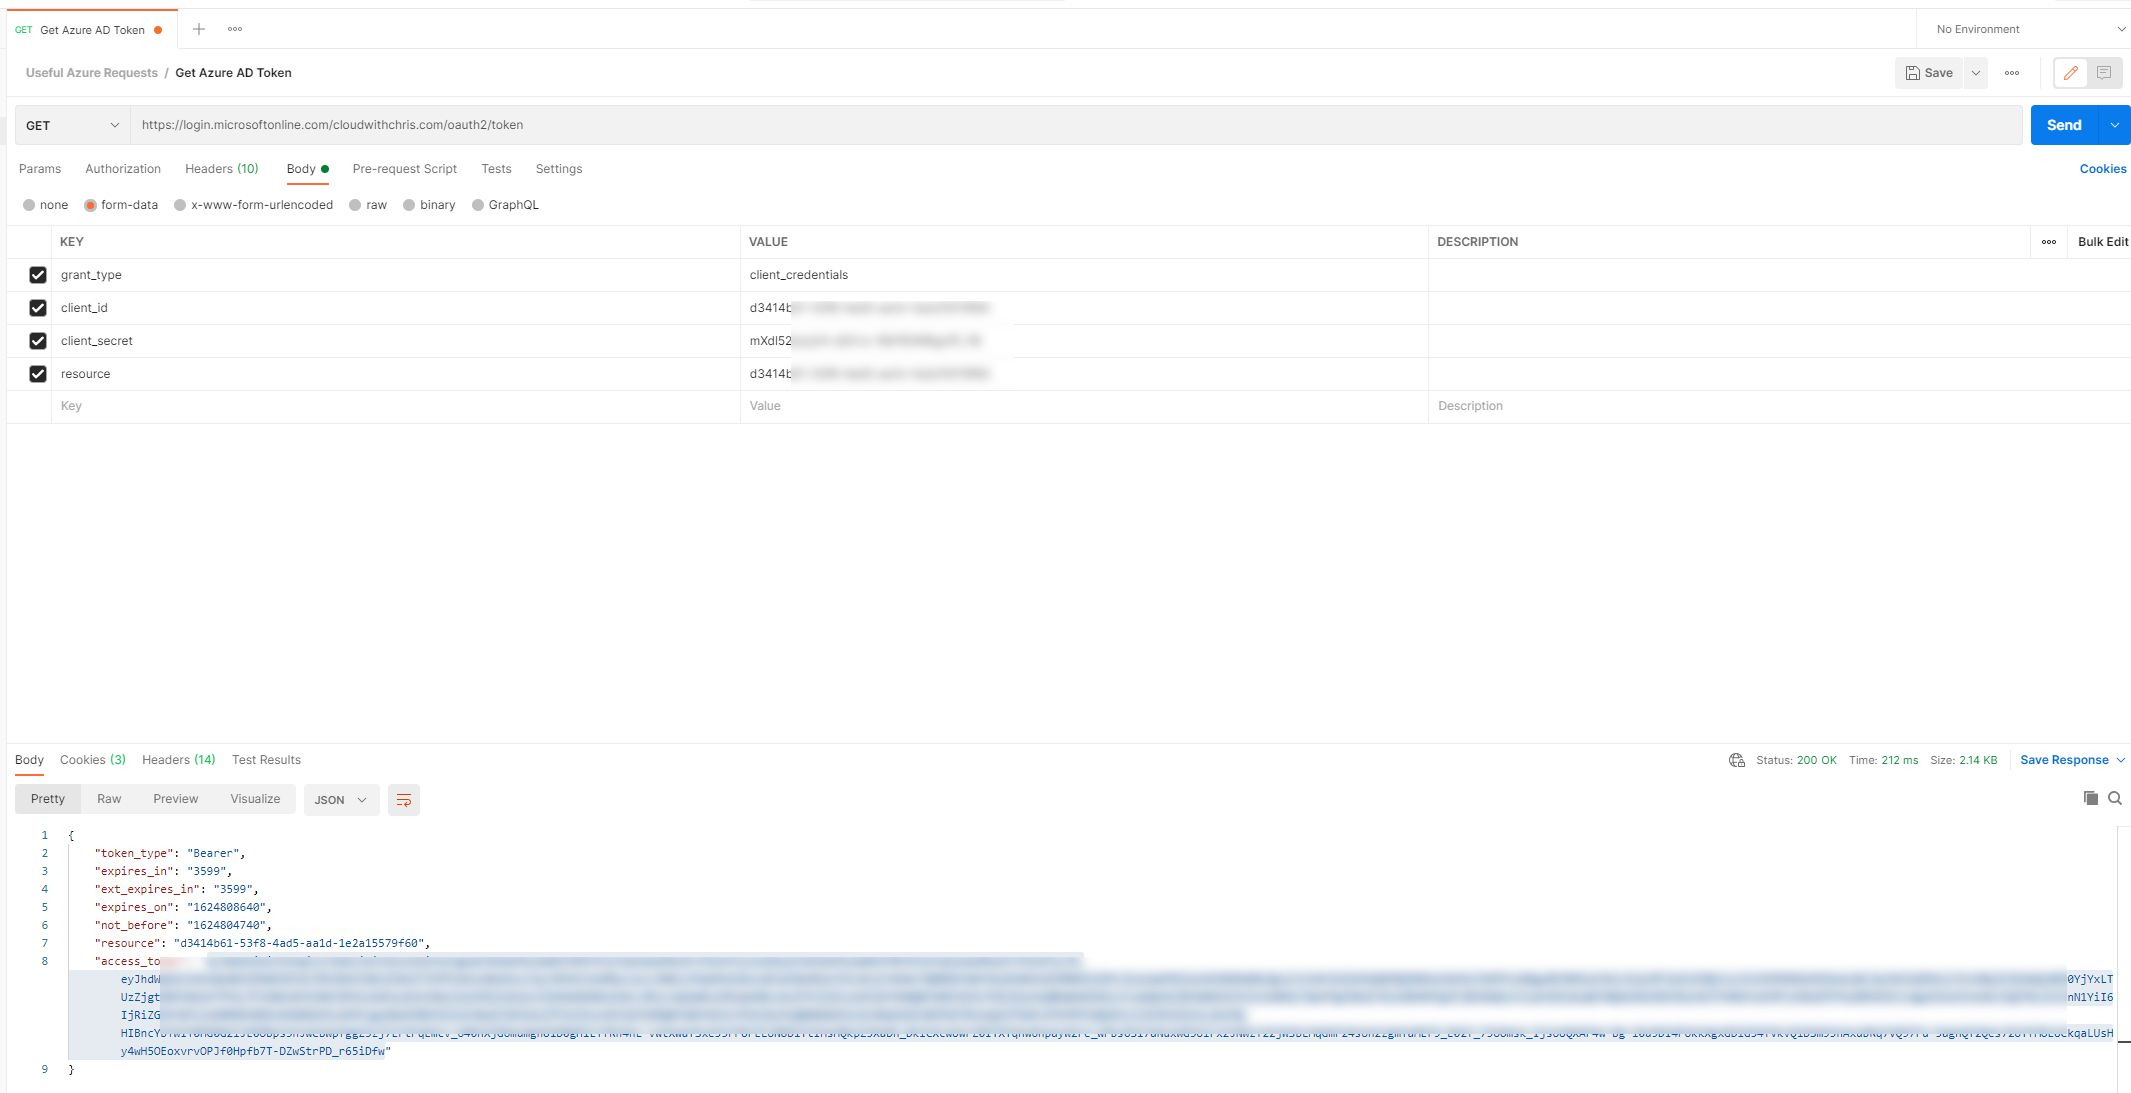
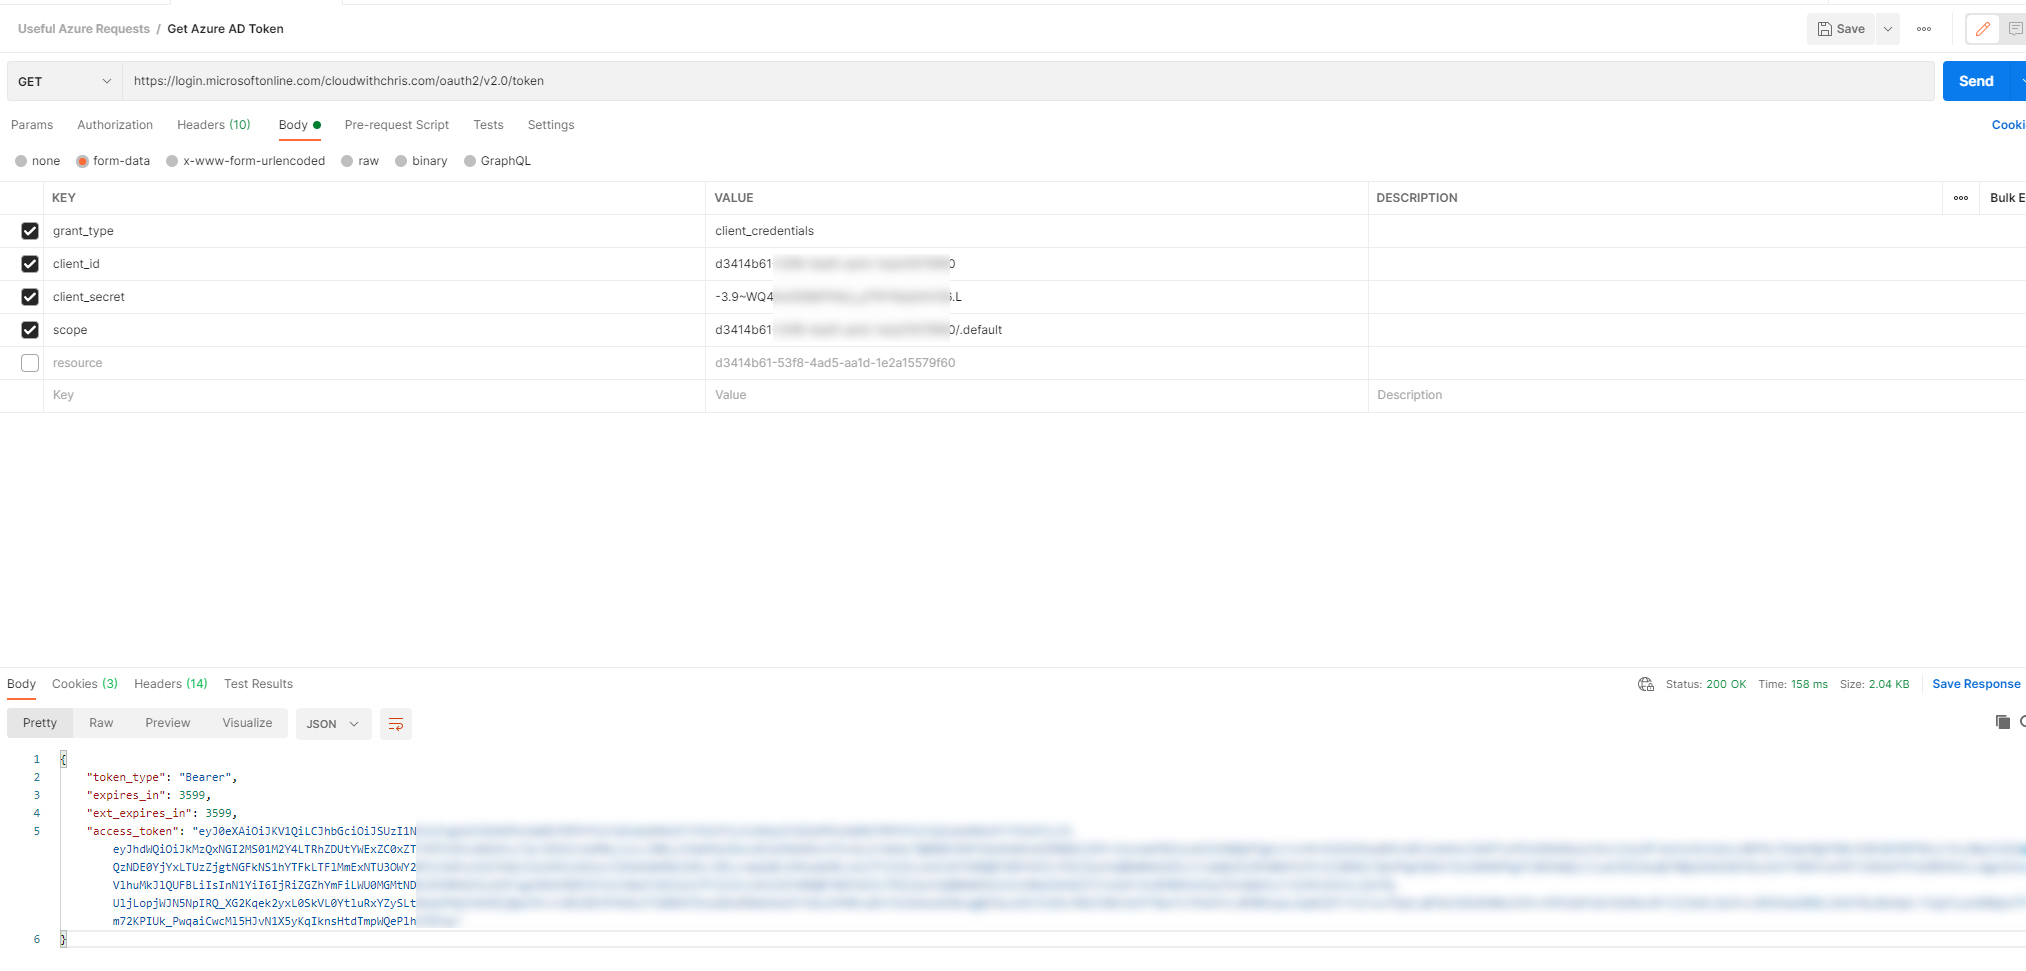
Tweak to use v2.0 endpoint

diff --git a/content/blog/api-management-and-policies.md b/content/blog/api-management-and-policies.md
@@ -126,13 +126,13 @@ At this point, I have opened [Postman](https://www.postman.com/) so that I can c
 
 I've set my postman request up with the following details:
 
-* A **GET** request to ``https://login.microsoftonline.com/cloudwithchris.com/oauth2/token``
+* A **GET** request to ``https://login.microsoftonline.com/cloudwithchris.com/oauth2/v2.0/token``
 * Added a **Content-Type** header with the value ``application/x-www-form-urlencoded``
 * Added the following items as **form-data** to the **request body**:
   * Set grant_type as client_credentials
   * Set client_id as the Client ID from the app registration
   * Set client_secret as the Client Secret from the app registration
-  * Set resource as the Client ID from the app registration
+  * Set scope as the Client ID with ``/.default`` appended to the end, e.g. ``d3414b61-53f8-4ad5-aa1d-1e2a15579f60/.default``.
   
 ![Screenshot showing Postman sending a request to Azure Active Directory for an authentication token](/img/blog/api-management-and-policies/apim-6.jpg)
 
@@ -146,7 +146,7 @@ Once you execute the request, you'll hopefully receive an ``HTTP Status 200 OK``
     "expires_on": "1624882328",
     "not_before": "1624878428",
     "resource": "d3414b61-53f8-4ad5-aa1d-1e2a15579f60",
-    "access_token": "eyJ0eXAiOiJKV1QiLCJhbGciOiJSUzI1NiIsIng1dCI6Im5PbzNaRHJPRFhFSzFqS1doWHNsSFJfS1hFZyIsImtpZCI6Im5PbzNaRHJPRFhFSzFqS1doWHNsSFJfS1hFZyJ9...A Load of extra characters here
+    "access_token": "eyJ0eXAiOiJKV1QiLCJhbGciOiJSUzI1NiIsIng1dCI6Im5PbzNaRHJPRFhFSzFqS1doWHNsSFJfS1hFZyIsImtpZCI6Im5PbzNaRHJPRFhFSzFqS1doWHNsSFJfS1hFZyJ...A Load of extra characters here"
 }
 ```
 
